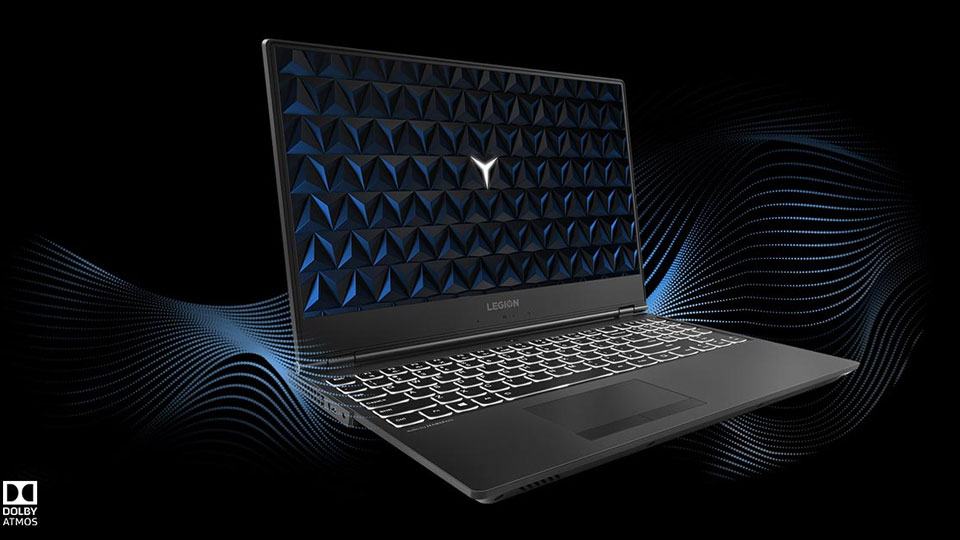
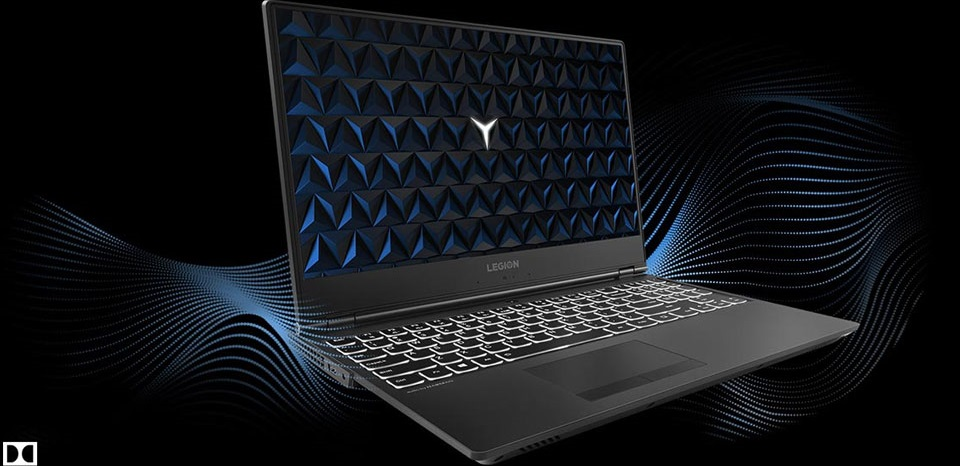
carousel valtozasok

diff --git a/Index.html b/Index.html
@@ -45,8 +45,6 @@
     </div>
   </nav>
   
-  
-        <p></p>
       <div class="container-fluid">
 
 
@@ -57,43 +55,43 @@
 
 
         <!-- Carousel -->
-<div id="demo" class="carousel slide" data-bs-ride="carousel">
+<div id="reklam" class="carousel slide w-50 mb-5" data-bs-ride="carousel">
 
   <!-- Indicators/dots -->
   <div class="carousel-indicators">
-    <button type="button" data-bs-target="#demo" data-bs-slide-to="0" class="active"></button>
-    <button type="button" data-bs-target="#demo" data-bs-slide-to="1"></button>
-    <button type="button" data-bs-target="#demo" data-bs-slide-to="2"></button>
-    <button type="button" data-bs-target="#demo" data-bs-slide-to="3"></button>
-    <button type="button" data-bs-target="#demo" data-bs-slide-to="4"></button>
+    <button type="button" data-bs-target="#reklam" data-bs-slide-to="0" class="active"></button>
+    <button type="button" data-bs-target="#reklam" data-bs-slide-to="1"></button>
+    <button type="button" data-bs-target="#reklam" data-bs-slide-to="2"></button>
+    <button type="button" data-bs-target="#reklam" data-bs-slide-to="3"></button>
+    <button type="button" data-bs-target="#reklam" data-bs-slide-to="4"></button>
   </div>
 
   <!-- The slideshow/carousel -->
   <div class="carousel-inner">
     <div class="carousel-item active">
-      <img src="kepek/egerpad_szeles.jpg" alt="széles egérpad" class=" img-fluid car d-block w-50">
+      <img src="kepek/egerpad_szeles.jpg" alt="széles egérpad" class=" img-fluid car d-block">
     </div>
     <div class="carousel-item">
-      <img src="kepek/PC_billentyuzet_es_eger.jpg" alt="Egér és bill" class=" img-fluid car d-block w-50">
+      <img src="kepek/PC_billentyuzet_es_eger.jpg" alt="Egér és bill" class=" img-fluid car d-block">
     </div>
     <div class="carousel-item">
-      <img src="kepek/15672.jpg" alt="Laptop" class=" img-fluid car d-block w-50">
+      <img src="kepek/15672.jpg" alt="Laptop" class=" img-fluid car d-block">
     </div>
     <div class="carousel-item">
-      <img src="kepek/teljes.jpg" alt="Teljes PC" class=" img-fluid car d-block w-50">
+      <img src="kepek/teljes.jpg" alt="Teljes PC" class=" img-fluid car d-block">
     </div>
     <div class="carousel-item car">
-      <img src="kepek/monitor34-01-e1603110435250-1024x636.png" alt="Monitor" class=" img-fluid  d-block w-50">
+      <img src="kepek/monitor34-01-e1603110435250-1024x636.png" alt="Monitor" class=" img-fluid  d-block">
     </div>
     
 
   </div>
 
   <!-- Left and right controls/icons -->
-  <button class="carousel-control-prev" type="button" data-bs-target="#demo" data-bs-slide="prev">
+  <button class="carousel-control-prev" type="button" data-bs-target="#reklam" data-bs-slide="prev">
     <span class="carousel-control-prev-icon"></span>
   </button>
-  <button class="carousel-control-next" type="button" data-bs-target="#demo" data-bs-slide="next">
+  <button class="carousel-control-next" type="button" data-bs-target="#reklam" data-bs-slide="next">
     <span class="carousel-control-next-icon"></span>
   </button>
 </div>
